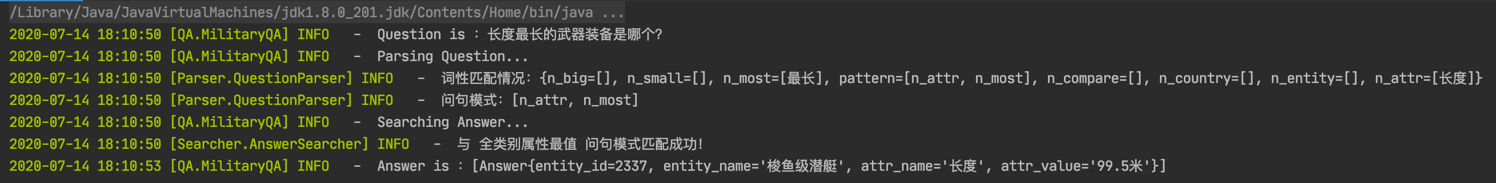
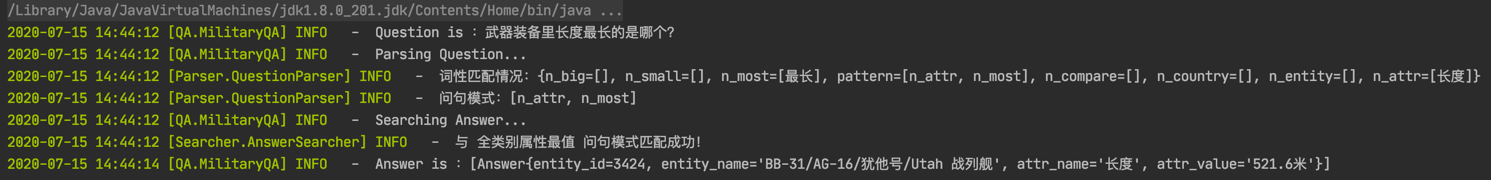
增加问句匹配模式
- 修复属性最值SQL查询问题。
- 完成（单类别属性最值）模式。

diff --git a/src/Searcher/AnswerSearcher.java b/src/Searcher/AnswerSearcher.java
@@ -20,10 +20,10 @@ public class AnswerSearcher {
 
         Map<String, List<List<String>>> patterns_map = new HashMap<>();
 
-        // 模式 ：国家实体类别
-        patterns_map.put("国家及实体类别名", new ArrayList<>());
-        patterns_map.get("国家及实体类别名").add(Arrays.asList("n_country", "n_small"));
-        patterns_map.get("国家及实体类别名").add(Arrays.asList("n_small", "n_country"));
+        // 模式 ：国家及类别名
+        patterns_map.put("国家及类别名", new ArrayList<>());
+        patterns_map.get("国家及类别名").add(Arrays.asList("n_country", "n_small"));
+        patterns_map.get("国家及类别名").add(Arrays.asList("n_small", "n_country"));
 
         // 模式 ：单实体
         patterns_map.put("单实体", new ArrayList<>());
@@ -90,11 +90,11 @@ public class AnswerSearcher {
         patterns_map.get("全类别属性最值").add(Arrays.asList("n_most", "n_attr"));
 
         // 模式 ：单类别属性最值
-        patterns_map.put("单实体类别属性最值", new ArrayList<>());
-        patterns_map.get("单实体类别属性最值").add(Arrays.asList("n_small", "n_attr", "n_most"));
-        patterns_map.get("单实体类别属性最值").add(Arrays.asList("n_small", "n_most", "n_attr"));
-        patterns_map.get("单实体类别属性最值").add(Arrays.asList("n_attr", "n_most", "n_small"));
-        patterns_map.get("单实体类别属性最值").add(Arrays.asList("n_attr", "n_small", "n_most"));
+        patterns_map.put("单类别属性最值", new ArrayList<>());
+        patterns_map.get("单类别属性最值").add(Arrays.asList("n_small", "n_attr", "n_most"));
+        patterns_map.get("单类别属性最值").add(Arrays.asList("n_small", "n_most", "n_attr"));
+        patterns_map.get("单类别属性最值").add(Arrays.asList("n_attr", "n_most", "n_small"));
+        patterns_map.get("单类别属性最值").add(Arrays.asList("n_attr", "n_small", "n_most"));
 
 
 //        logger.info("问句模式匹配字典初始化完成！");
@@ -110,8 +110,8 @@ public class AnswerSearcher {
         List<Answer> answers = new ArrayList<>();
 
         // 模式匹配
-        if (patterns.get("国家及实体类别名").contains(parser_dict.get("pattern"))) {
-            logger.info(String.format("与 %s 问句模式匹配成功！", "国家及实体类别名"));
+        if (patterns.get("国家及类别名").contains(parser_dict.get("pattern"))) {
+            logger.info(String.format("与 %s 问句模式匹配成功！", "国家及类别名"));
             String country = DictMapper.Country.get(parser_dict.get("n_country").get(0));
             String category = DictMapper.SmallCategory.get(parser_dict.get("n_small").get(0));
             // 数据库检索答案
@@ -168,9 +168,17 @@ public class AnswerSearcher {
                 answers.addAll(DbSearcher.searchMinInAllCategory(attr));
         }
 
-        else if (patterns.get("单实体类别属性最值").contains(parser_dict.get("pattern"))) {
-            logger.info(String.format("与 %s 问句模式匹配成功！", "单实体类别属性最值"));
+        else if (patterns.get("单类别属性最值").contains(parser_dict.get("pattern"))) {
+            logger.info(String.format("与 %s 问句模式匹配成功！", "单类别属性最值"));
+            String category = DictMapper.SmallCategory.get(parser_dict.get("n_small").get(0));
+            String type = DictMapper.Most.get(parser_dict.get("n_most").get(0));
+            String attr = DictMapper.Attribute.get(parser_dict.get("n_attr").get(0));
 
+            // 数据库检索答案
+            if (type.equals("max"))
+                answers.addAll(DbSearcher.searchMaxInSingleCategory(category, attr));
+            else if (type.equals("min"))
+                answers.addAll(DbSearcher.searchMinInSingleCategory(category, attr));
         }
 
         else {

diff --git a/src/Searcher/DbSearcher.java b/src/Searcher/DbSearcher.java
@@ -9,6 +9,7 @@ import org.apache.logging.log4j.LogManager;
 import org.apache.logging.log4j.Logger;
 
 import java.io.InputStream;
+import java.util.Collection;
 import java.util.List;
 
 public class DbSearcher {
@@ -77,5 +78,27 @@ public class DbSearcher {
     public static List<Answer> searchMinInAllCategory(String attr) {
 
         return answerMapper.findMinByAttrInAllCategory(attr);
+    }
+
+    /**
+     * 单类别属性最大值
+     * @param category 类别名
+     * @param attr 属性名
+     * @return
+     */
+    public static List<Answer> searchMaxInSingleCategory(String category, String attr) {
+
+        return answerMapper.findMaxByAttrInSingleCategory(category, attr);
+    }
+
+    /**
+     * 单类别属性最小值
+     * @param category 类别名
+     * @param attr 属性名
+     * @return
+     */
+    public static List<Answer> searchMinInSingleCategory(String category, String attr) {
+
+        return answerMapper.findMinByAttrInSingleCategory(category, attr);
     }
 }

diff --git a/src/Test/TestQA.java b/src/Test/TestQA.java
@@ -12,7 +12,7 @@ public class TestQA {
     public static void main(String[] args) {
 
         MilitaryQA QA = new MilitaryQA();
-        // 国家实体类别
+        // 国家及类别名
 //        QA.qa_main("中国的战斗机有哪些？");
 
         // 单实体
@@ -28,7 +28,9 @@ public class TestQA {
 //        QA.qa_main("神舟五号、神舟七号和歼-20战斗机的长度、发射地点、生产商、原产国和简介？");
 
         // 全类别属性最值
-        QA.qa_main("长度最长的武器装备是哪个？");
+//        QA.qa_main("武器装备里长度最长的是哪个？");
 
+        // 单类别属性最值
+        QA.qa_main("战斗机里长度最短的是哪个？");
     }
 }

diff --git a/src/Mapper/AnswerMapper.java b/src/Mapper/AnswerMapper.java
@@ -16,4 +16,8 @@ public interface AnswerMapper {
     public List<Answer> findMaxByAttrInAllCategory(String attr);
 
     public List<Answer> findMinByAttrInAllCategory(String attr);
+
+    public List<Answer> findMaxByAttrInSingleCategory(String category, String attr);
+
+    public List<Answer> findMinByAttrInSingleCategory(String category, String attr);
 }

diff --git a/README.md b/README.md
@@ -47,10 +47,17 @@
         - Mybatis转ES查询。
         - 补充完善实体和属性的别名。
         
+#### 2020.07.15
+    1. 问题
+    2. 进度
+        - 修复属性最值SQL查询问题。
+        - 完成（单类别属性最值）模式。
+
+
 - - -
-#### 问答效果
+#### 问答效果示例
 - 国家及实体类别名 \
-![](pic/国家及实体类别名问句示例.png)
+![](pic/国家及类别名问句示例.png)
 
 - 单实体 \
 ![](pic/单实体问句示例.png)
@@ -59,10 +66,13 @@
 ![](pic/多实体问句示例.png)
 
 - 单实体单属性多属性 \
-![](pic/单实体单属性多属性.png)
+![](pic/单实体单属性多属性问句示例.png)
 
 - 多实体单属性多属性 \
-![](pic/多实体单属性多属性.png)
+![](pic/多实体单属性多属性问句示例.png)
 
 - 全类别属性最值 \
 ![](pic/全类别属性最值问句示例.png)
+
+- 单类别属性最值 \
+![](pic/单类别属性最值问句示例.png)
